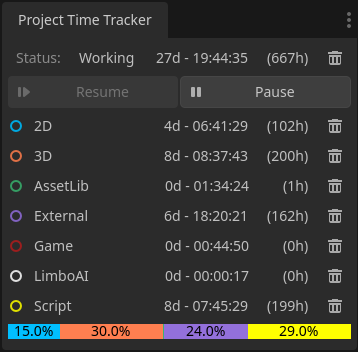
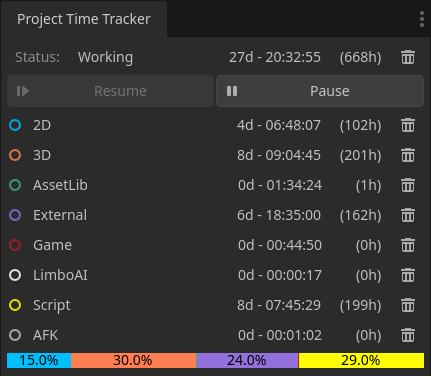
Add project settings to define AFK timer Update Readme Update preview

diff --git a/README.md b/README.md
@@ -17,6 +17,7 @@ Developed in and tested against Godot 4.4
 - Mono font
 - Total hours for sections
 - Add project settings to show/hide sections and graphs
+- Add project settings to define AFK timer (in seconds)
 
 ### v2.0.4
 - Gogot 4.4
@@ -38,12 +39,13 @@ Developed in and tested against Godot 4.4
 
 
 
-## Godot Time Traker VS Project Time Tracker
+## Godot Time Traker features (added or modified compared to Project Time Tracker)
 - No session
 - Start when project is loaded
 - Graphs shows the percentages of sections
 - Timer are saved every time a scene or script are saved
 - Timer stops after 5 min of inactivity and resumes automatically (AFK management)
+	Editable in project settings
 - When godot editor is not focused, time is count as External. For users that use external code editor
 
 ## Knows issues
